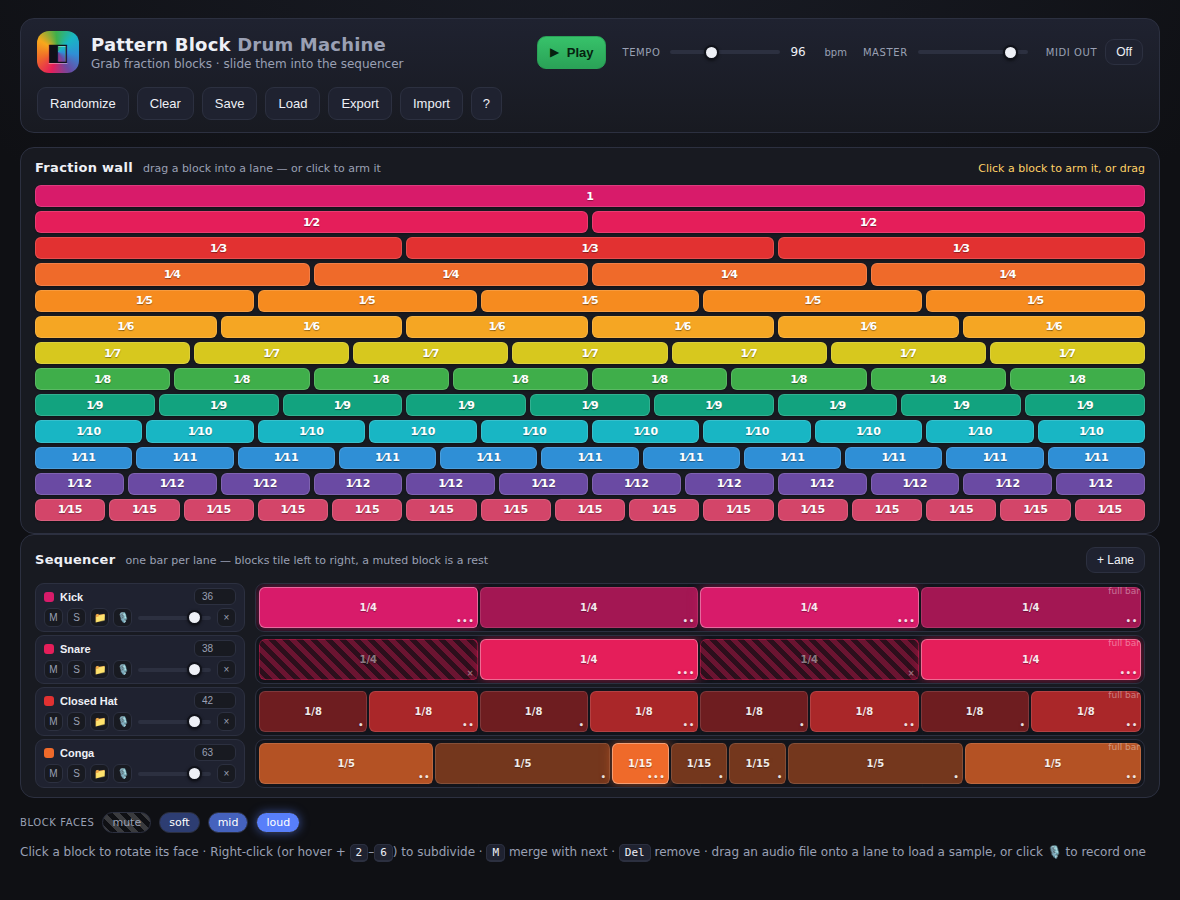
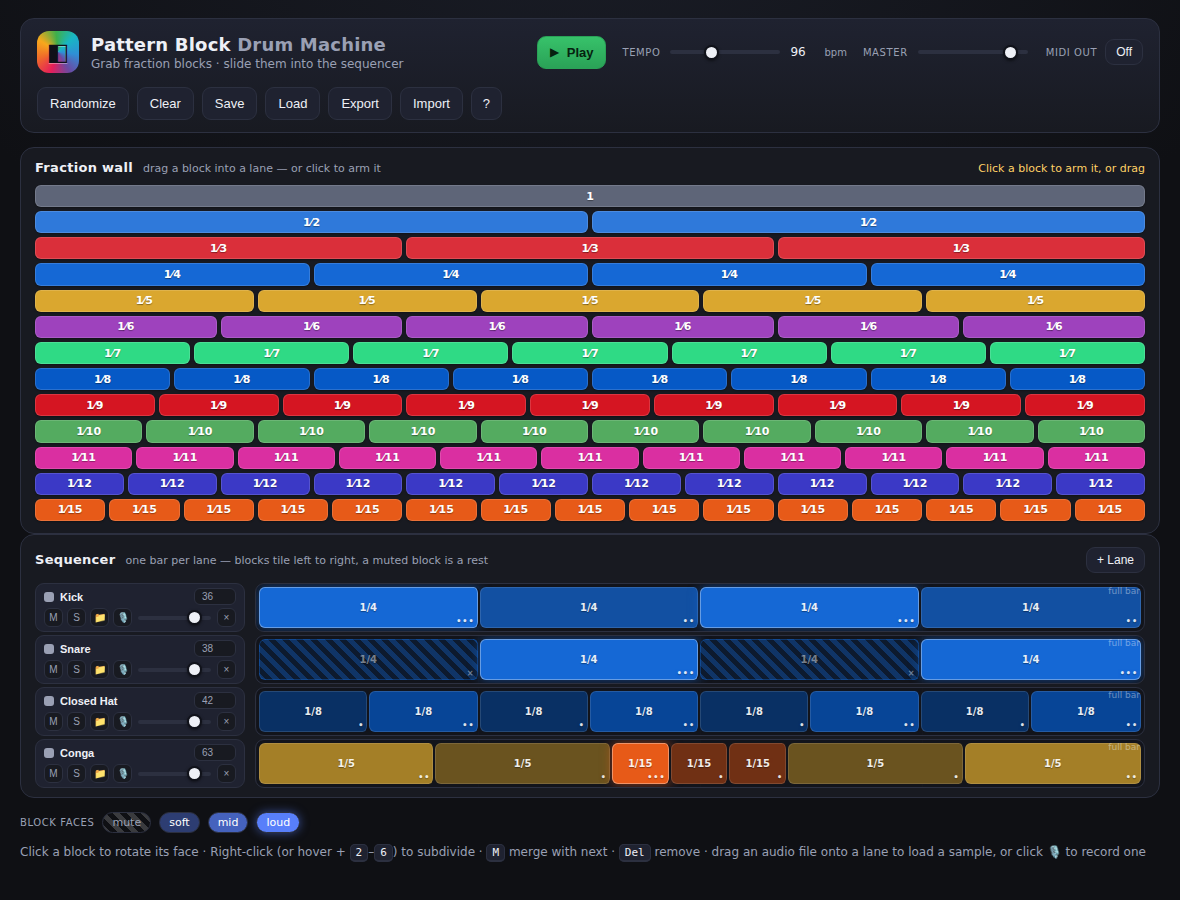
Colour blocks by prime factorization, matching wall and sequencer
Replaces the fixed 12-colour palette with a colour derived from each
denominator's prime factorization:
- Every prime gets its own strong hue (2 = blue, 3 = red, ...).
- A prime power keeps that hue but grows more saturated/darker as the
  exponent rises, so 9 = 3^2 reads as a deeper "super red".
- A composite of distinct primes gets the exponent-weighted circular mean
  of its factors' hues, so 12 = 2^2*3 leans twice as hard toward blue as
  6 = 2*3 does and reads as "blueish purple" next to 6's plain purple.

Also fixes an inconsistency this surfaced: sequencer blocks were coloured
by their lane's index, not by the block's own fraction, so a lane could
show a 1/3 and a 1/2 block as the same colour, and the sequencer never
actually matched the wall. Blocks now colour by their own denominator in
both places. The small per-lane identity dot is unrelated to any
fraction, so it now stays a fixed neutral colour instead of cycling
through the old rainbow by lane index.

Claude-Session: https://claude.ai/code/session_01JLy3ZtVPaGqb343nudpiEm

diff --git a/app.js b/app.js
@@ -22,16 +22,49 @@ const FACE_DOTS = { loud: '•••', mid: '••', soft: '•', mute: '×' };
 const GM_NOTES = [36, 38, 39, 42, 46, 45, 63, 37, 56, 70, 75, 53];
 const MIDI_CH = 9;                      // 0-indexed channel 10 (GM drums)
 
-// Rainbow palette approximating the classic fraction-wall chart (rows 1..12).
-const PALETTE = [
-  '#d81b6a', '#e51e5a', '#e23131', '#ef6a2a', '#f68b1f', '#f5a623',
-  '#d7c81e', '#3fae4a', '#12a37f', '#18b6c4', '#2f8fd6', '#6a4aa3'
-];
-// Colour for a denominator row. 1..12 use the chart palette; new rows created by
-// subdividing (e.g. 15ths) get a generated hue so they stay visually distinct.
-function rowColor(den) {
-  if (den >= 1 && den <= ROWS) return PALETTE[den - 1];
-  return `hsl(${(den * 47) % 360} 62% 55%)`;
+/* ------------------------------ prime-factor colour --------------------- */
+// Every prime gets its own strong hue. A prime power (9 = 3^2) keeps that hue
+// but grows more saturated/darker as the exponent rises ("super red"). A
+// composite of distinct primes (6 = 2*3, 12 = 2^2*3) gets the exponent-weighted
+// circular mean of its prime factors' hues, so 12 leans twice as hard toward
+// blue as 6 does and reads as "blueish purple" next to 6's plain purple.
+const PRIME_HUE = { 2: 214, 3: 356, 5: 42, 7: 150, 11: 320, 13: 185 };
+const clamp = (v, lo, hi) => Math.max(lo, Math.min(hi, v));
+
+function hueForPrime(p) { return PRIME_HUE[p] != null ? PRIME_HUE[p] : (p * 61) % 360; }
+
+function primeFactorize(n) {
+  const factors = new Map();
+  let m = n;
+  for (let p = 2; p * p <= m; p++) {
+    while (m % p === 0) { factors.set(p, (factors.get(p) || 0) + 1); m /= p; }
+  }
+  if (m > 1) factors.set(m, (factors.get(m) || 0) + 1);
+  return factors;
+}
+
+// Colour for a denominator (the fraction wall "row" a block belongs to).
+function denColor(den) {
+  if (den <= 1) return 'hsl(224 12% 42%)';   // the whole bar "1" — no prime factors, neutral
+  const factors = [...primeFactorize(den)];
+  let vx = 0, vy = 0, total = 0;
+  for (const [p, a] of factors) {
+    const hue = hueForPrime(p) * Math.PI / 180;
+    vx += Math.cos(hue) * a; vy += Math.sin(hue) * a; total += a;
+  }
+  let hueDeg = Math.atan2(vy, vx) * 180 / Math.PI;
+  if (hueDeg < 0) hueDeg += 360;
+  let sat, light;
+  if (factors.length === 1) {
+    const exp = factors[0][1];
+    sat = clamp(70 + (exp - 1) * 12, 0, 100);
+    light = clamp(52 - (exp - 1) * 6, 22, 60);
+  } else {
+    const agreement = Math.hypot(vx, vy) / total;   // 1 = factors agree, 0 = they cancel out (opposed hues)
+    sat = clamp(30 + agreement * 55, 15, 90);
+    light = 50;
+  }
+  return `hsl(${hueDeg.toFixed(1)} ${sat.toFixed(0)}% ${light.toFixed(0)}%)`;
 }
 
 /* ------------------------------ fraction math -------------------------- */
@@ -473,7 +506,7 @@ function renderPalette() {
     for (let i = 0; i < den; i++) {
       const b = el('div', 'pblock');
       if (armed && armed.d === den) b.classList.add('armed');
-      b.style.setProperty('--c', rowColor(den));
+      b.style.setProperty('--c', denColor(den));
       b.draggable = true;
       b.dataset.n = 1; b.dataset.d = den;
       b.innerHTML = den === 1 ? '1' : `<span>1&frasl;${den}</span>`;
@@ -511,7 +544,7 @@ function renderSeq() {
     /* gutter -------------------------------------------------------- */
     const gutter = el('div', 'gutter');
     const voiceRow = el('div', 'lane-voice');
-    const dot = el('span', 'voice-dot'); dot.style.setProperty('--c', rowColor((li % ROWS) + 1));
+    const dot = el('span', 'voice-dot');   // a lane marker, not a fraction — stays neutral (see CSS)
     const name = el('button', 'lane-name'); name.textContent = lane.name;
     name.title = 'Click to change the built-in voice';
     name.addEventListener('click', () => { cycleVoice(lane); });
@@ -557,7 +590,7 @@ function renderSeq() {
       const blockEl = el('div', 'block face-' + b.face);
       const w = Math.min(fval(b), 1) * 100;
       blockEl.style.flex = `0 0 ${w}%`;
-      blockEl.style.setProperty('--c', rowColor((li % ROWS) + 1));
+      blockEl.style.setProperty('--c', denColor(reduce(b.n, b.d).d));   // colour follows the block's own fraction, matching the wall
       // seam (not flex `gap`) so splitting a block into pieces can't add extra
       // total width — flex `gap` stacks on top of percentage widths and drifts
       // the row out of alignment with other lanes as pieces are added.

diff --git a/index.html b/index.html
@@ -97,6 +97,11 @@
       <h2>How the Pattern Block Drum Machine works</h2>
       <p>The <strong>fraction wall</strong> at the top is your bin of wooden blocks. Every block is a slice of one
         bar: a whole <em>1</em>, a <em>1/2</em>, a <em>1/3</em>, all the way to <em>1/12</em>.</p>
+      <p>Colours come from <strong>prime factors</strong>: each prime gets its own strong colour (2 is blue, 3 is
+        red), a prime power gets more intense as the exponent rises (9 = 3² is a deeper, "super" red), and a
+        composite blends its factors' colours weighted by exponent — 6 (2×3) is purple, and 12 (2²×3) leans further
+        toward blue than 6 does, since it has an extra factor of 2. A block's colour is the same wherever it
+        appears, on the wall or in a lane.</p>
       <ul>
         <li><strong>Build a rhythm</strong> — drag a block from the wall into a lane. Blocks tile from the left,
           and a block's width <em>is</em> its length in time.</li>

diff --git a/styles.css b/styles.css
@@ -137,7 +137,7 @@ input[type=range]::-moz-range-thumb {
 .lane-voice {
   grid-column: 1 / -1; display: flex; align-items: center; gap: 6px; min-width: 0;
 }
-.voice-dot { width: 10px; height: 10px; border-radius: 3px; background: var(--c); flex: none; }
+.voice-dot { width: 10px; height: 10px; border-radius: 3px; background: var(--muted); flex: none; }
 .lane-name {
   flex: 1; overflow: hidden; text-overflow: ellipsis; white-space: nowrap; color: var(--text);
   font-weight: 600; background: none; border: none; cursor: pointer; text-align: left; padding: 0; font-size: 11px;

diff --git a/README.md b/README.md
@@ -8,6 +8,13 @@ Inspired by classroom fraction rods — every block is a slice of one bar
 (`1`, `1/2`, `1/3` … `1/12`), and because a block's **width is its length in
 time**, stacking lanes of different fractions gives you rich polyrhythms.
 
+Colours are built from **prime factorization**, not a fixed palette: each prime
+gets its own strong hue (2 is blue, 3 is red), a prime power intensifies that
+hue as the exponent grows (`9 = 3²` is a deeper "super red"), and a composite
+blends its factors' hues weighted by exponent (`6 = 2×3` is purple; `12 = 2²×3`
+leans further toward blue than `6` does, from that extra factor of 2). A
+block's colour is always the same on the wall and in a lane.
+
 ![fraction wall + sequencer](docs/screenshot.png)
 
 ## Run it
